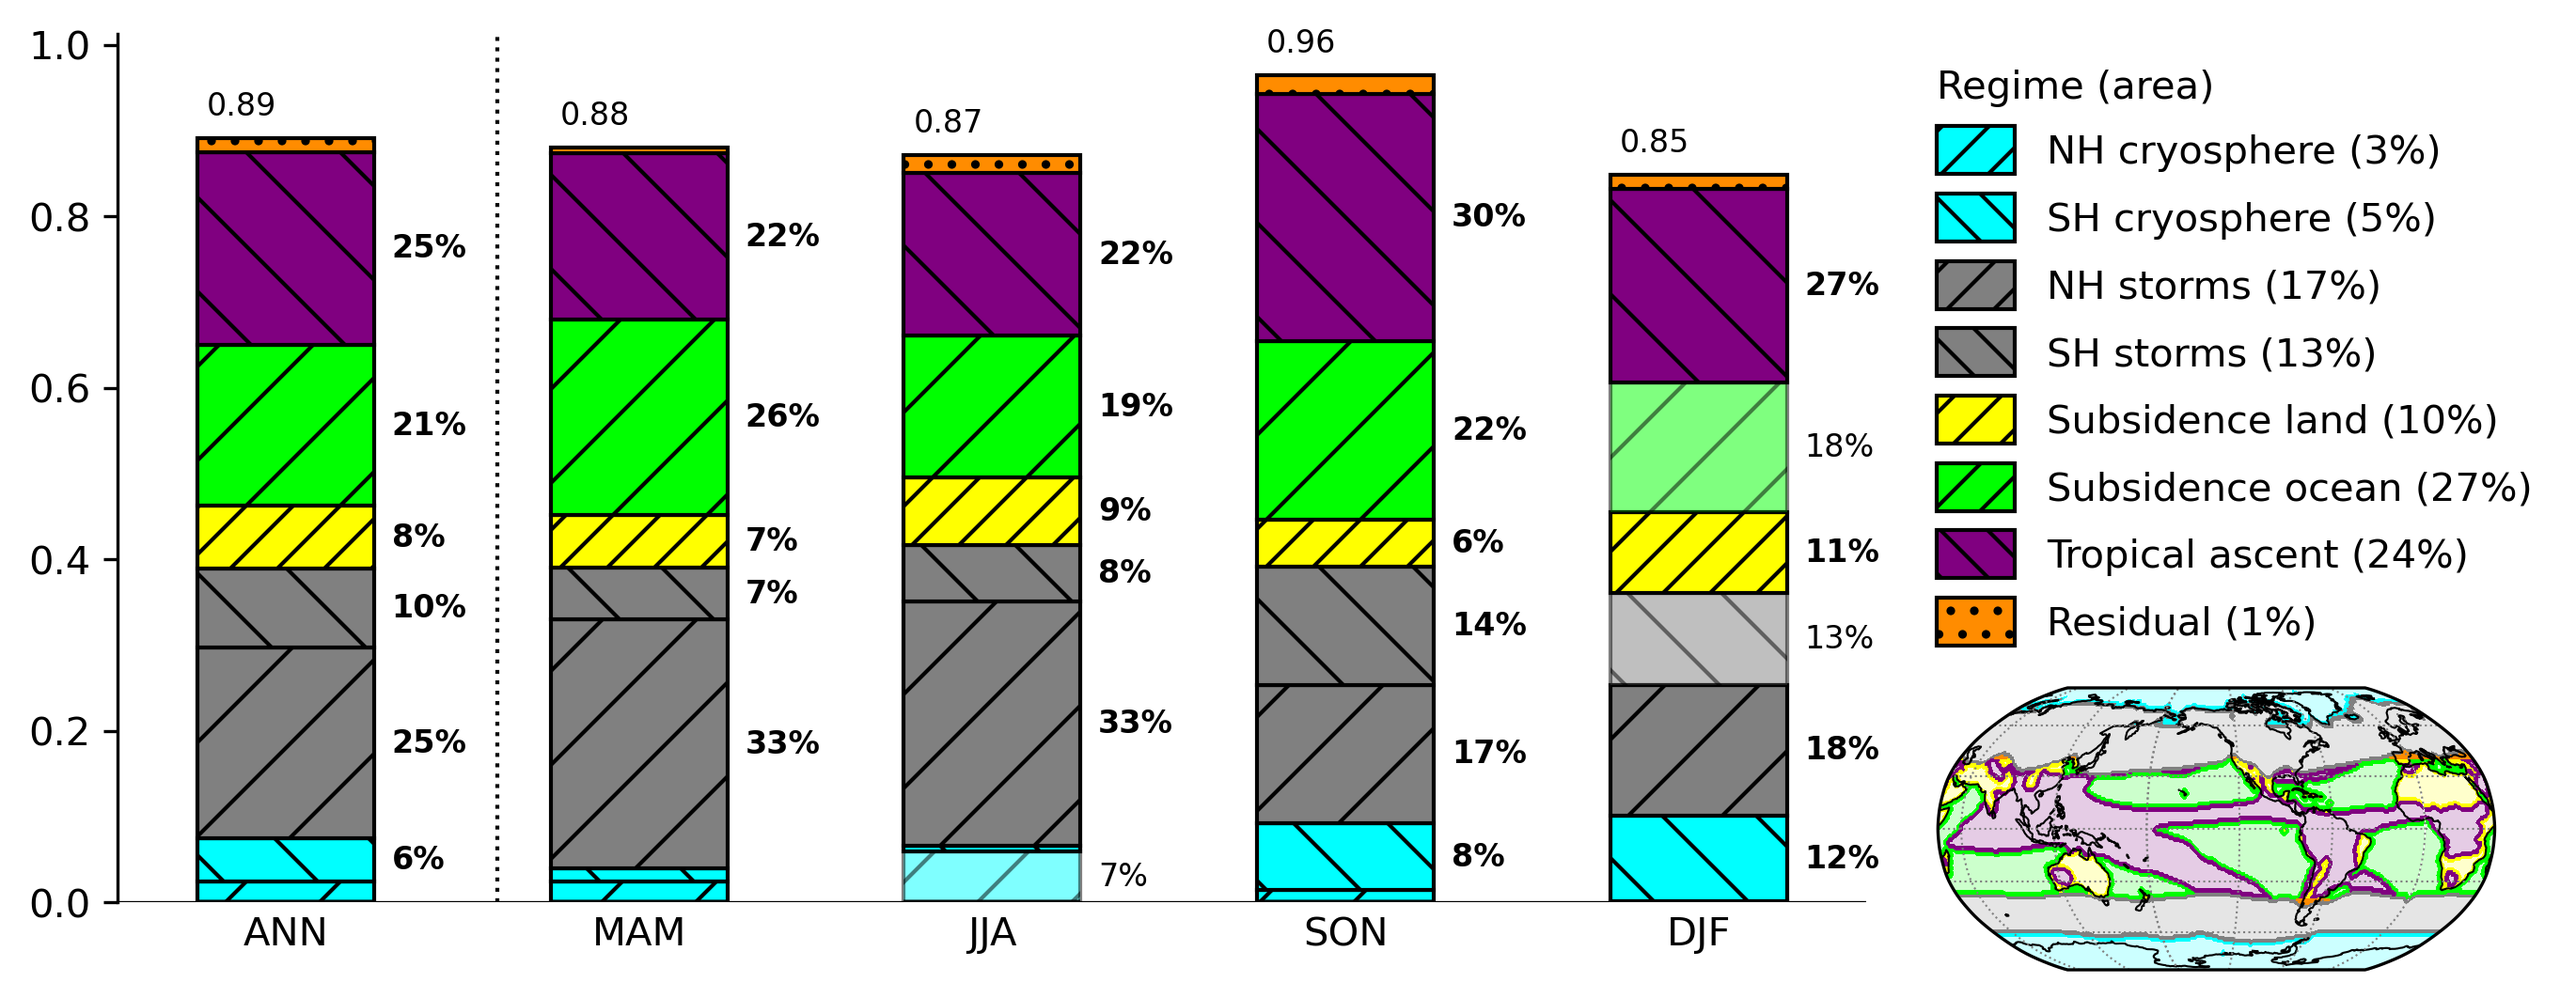
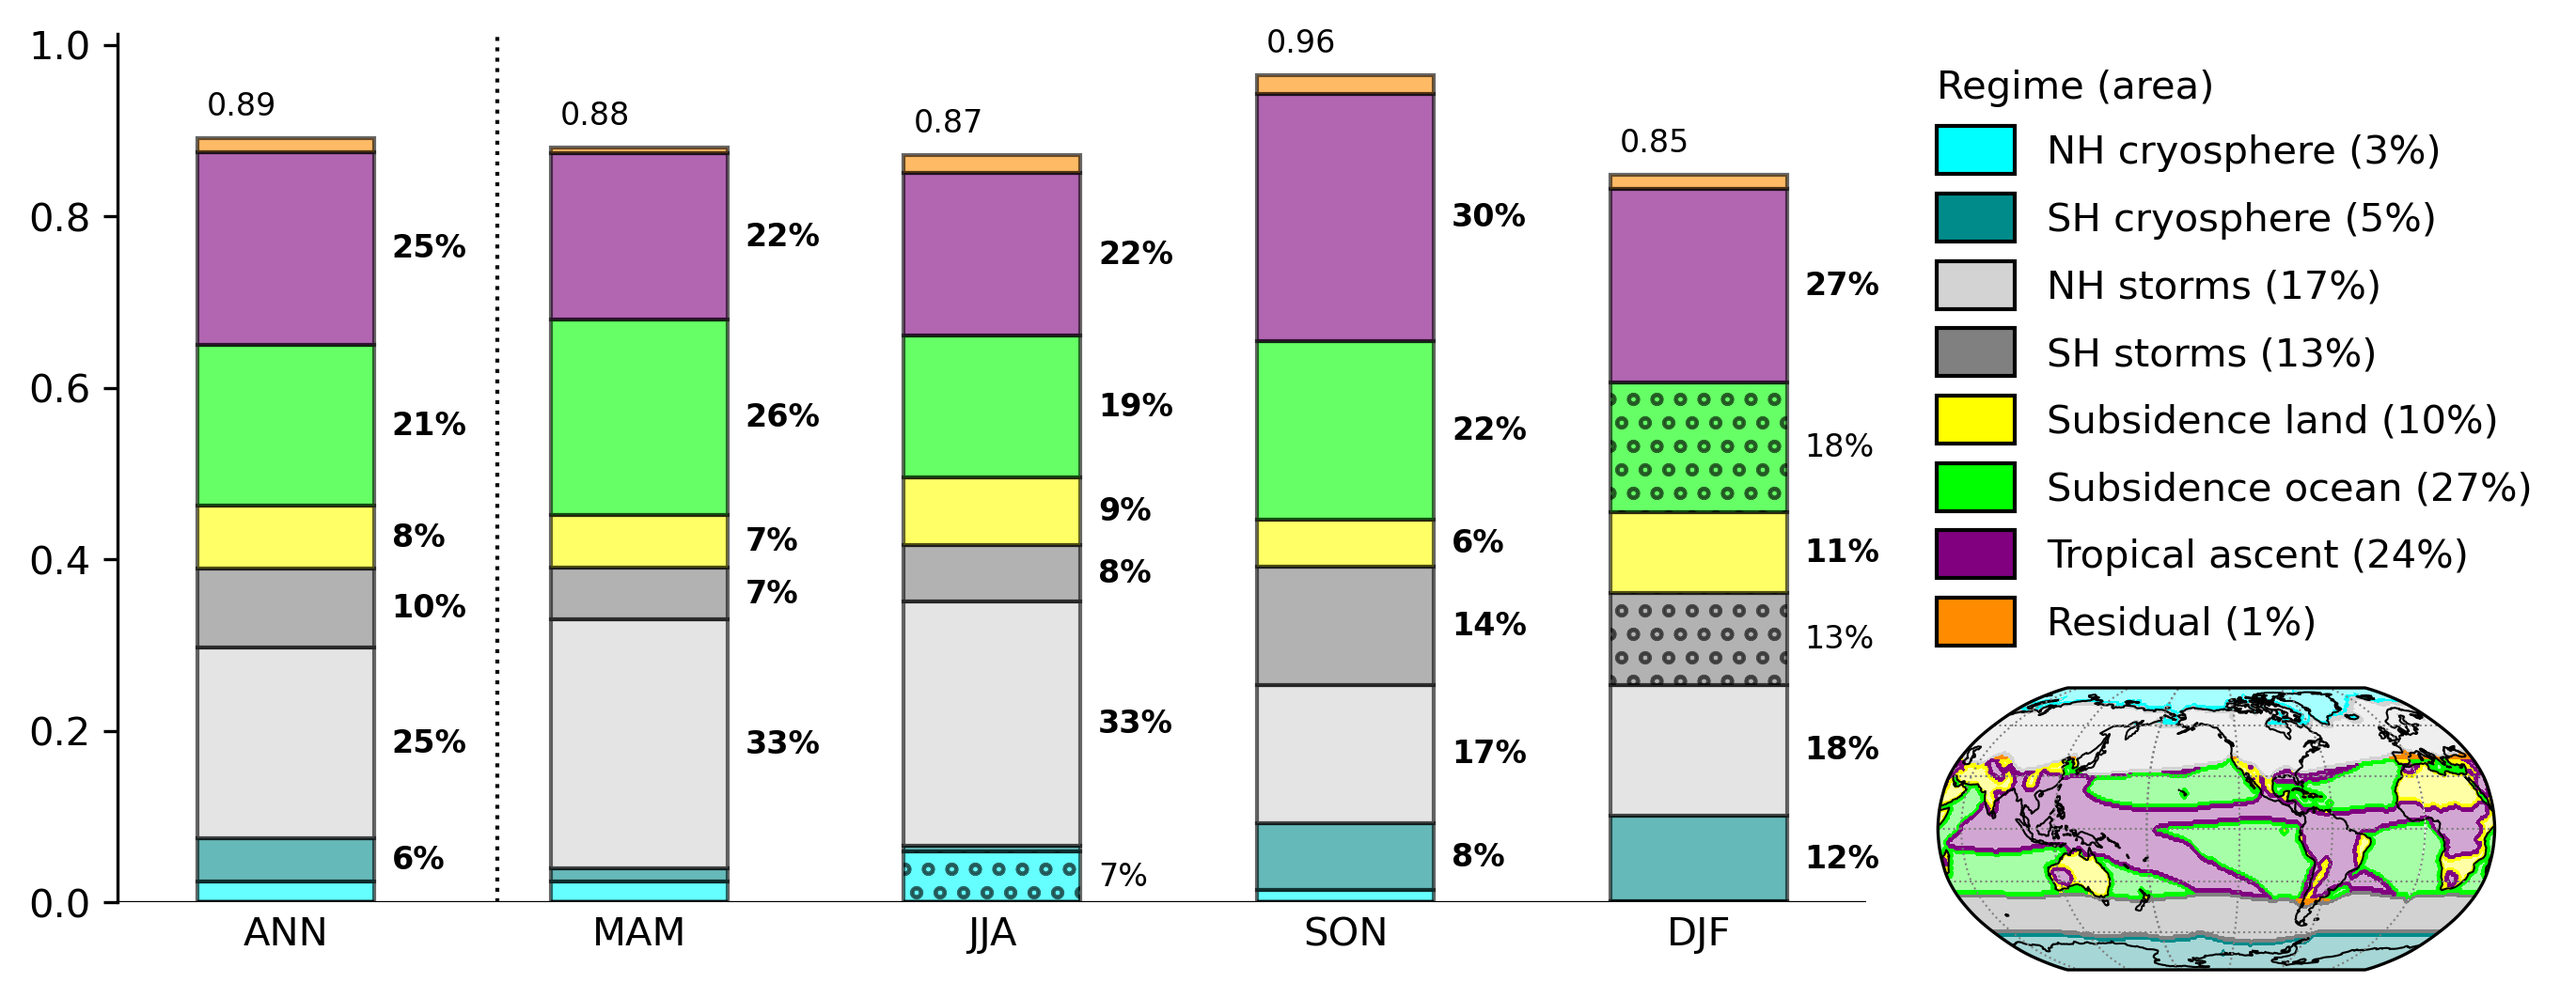
change colors and add 'o' hatches for non-sig trends

diff --git a/make_figs/barchart.py b/make_figs/barchart.py
@@ -43,10 +43,12 @@ def do_barchart(regime_trend_file="pp/regime_mean_trends.nc", PLOT_VAR="net", ex
 
         # need to loop for alpha
         for i,xi in enumerate(x):
+            is_sig = sig[i]
             bars_pos = ax.bar(x[i], pos[i], width,
                 bottom=bottom_pos[i],
                 color=colors[r],
-                alpha=light_alpha + sig[i]*(1-light_alpha),
+                # alpha=light_alpha + sig[i]*(1-light_alpha),
+                alpha=0.6,
                 edgecolor="k",
                 label=r if i==0 else None,
             )
@@ -54,13 +56,15 @@ def do_barchart(regime_trend_file="pp/regime_mean_trends.nc", PLOT_VAR="net", ex
             bars_neg = ax.bar(x[i], neg[i], width,
                 bottom=bottom_neg[i],
                 color=colors[r],
-                alpha=light_alpha + sig[i]*(1-light_alpha),
+                # alpha=light_alpha + sig[i]*(1-light_alpha),
+                alpha=0.6,
                 edgecolor="k",
             )    
 
-            hatch = hatches.get(r, "")
-            bars_pos[0].set_hatch(hatch)
-            bars_neg[0].set_hatch(hatch)
+            # hatch = hatches.get(r, "")
+            if not is_sig:
+                bars_pos[0].set_hatch("oo")
+                bars_neg[0].set_hatch("oo")
 
             pct = values[i]/totals[i]*100
             if np.abs(pct) > 5:
@@ -101,7 +105,7 @@ def do_barchart(regime_trend_file="pp/regime_mean_trends.nc", PLOT_VAR="net", ex
             Patch(
                 facecolor=colors[r],
                 edgecolor="k",
-                hatch=hatches_legend.get(r, ""),
+                # hatch=hatches_legend.get(r, ""),
                 alpha=1.0
             )
         )
@@ -160,7 +164,7 @@ def do_barchart(regime_trend_file="pp/regime_mean_trends.nc", PLOT_VAR="net", ex
             levels=[0.5, 1],
             colors=[colors[r]],
             transform=ccrs.PlateCarree(),
-            alpha=0.2,
+            alpha=0.35,
         )
 
     plt.savefig(f"figures/{out_subdir}trend_barchart_{PLOT_VAR}{extra_fname}.png",

diff --git a/utils/plotting.py b/utils/plotting.py
@@ -9,13 +9,13 @@ color_range_for_trends = 5
 
 # color per regime
 colors = {
-    "nh_storms": "grey",
+    "nh_storms": "lightgrey",
     "nh_cryosphere": "cyan",
     "subsidence_land": "yellow",
     "subsidence_ocean": "lime",
     "tropical_ascent": "purple",
     "sh_storms": "grey",
-    "sh_cryosphere": "cyan",
+    "sh_cryosphere": "darkcyan",
     "residual": "darkorange",
 }
 
